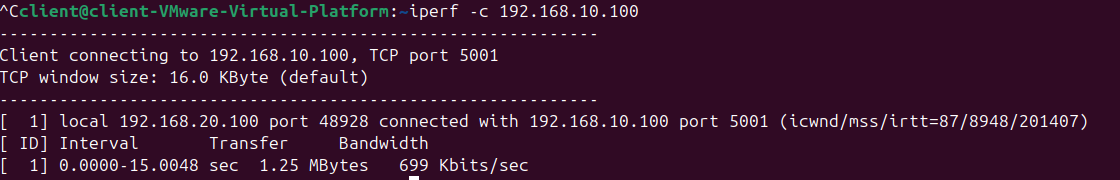
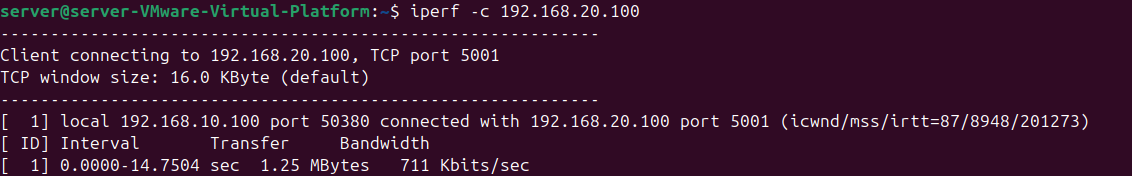
Update Part 1 network test report

diff --git a/report.md b/report.md
@@ -1,9 +1,10 @@
 # EE 542 Lab 2 – Fast, Reliable File Transfer
 
 ## Part 1: Simulating Networking Environments
-## Case 1 The round-trip time (RTT) of 10ms with the Loss rate of 1% (bi-directional) on a network configured to transfer at 100Mbits/sec for the server, client, and router. (Tests conducted by Junyu Zhao)
 
-### Summary
+### Case 1 The round-trip time (RTT) of 10ms with the Loss rate of 1% (bi-directional) on a network configured to transfer at 100Mbits/sec for the server, client, and router. (Tests conducted by Junyu Zhao)
+
+#### Summary
 
 | Test | Direction | Average RTT | Throughput / Bandwidth | Packet Loss |
 |---|---|---:|---:|---:|
@@ -13,7 +14,7 @@
 | UDP iperf | Server → Client | - | Verified in test video | ~1% configured per direction |
 | TCP iperf | Client → Server | - | 23.8 Mbits/sec receiver | 150 retransmissions |
 
-### Observation
+#### Observation
 
 The Case 1 environment was configured for a **100 Mbit/s bandwidth limit**, approximately **10 ms RTT**, and **1% packet loss in each direction**.
 
@@ -25,79 +26,84 @@ The measured RTT was approximately **11.8 ms in both directions**, which is clos
 
 The observed ping packet loss was around **2%–2.5% round-trip**. Since **1% packet loss was configured independently on both VyOS egress directions**, the round-trip ping loss can be close to 2%.
 
-### Configuration Adjustment
+#### Configuration Adjustment
 
 The original lab document used the following TBF parameters:
+
+```text
 rate 100mbit latency 0.001ms burst 9015
+```
 
 In my VMware environment, this configuration only produced approximately 50–60 Mbit/s TCP throughput and resulted in a large number of retransmissions.
+
 <img width="1002" height="624" alt="image" src="https://github.com/user-attachments/assets/9cfd39c1-f2a6-4bdb-bca1-3631a2aa0348" />
 
 
 To maintain the required 100 Mbit/s rate while improving stability in the virtual-machine environment, the TBF parameters were adjusted to:
 
+```text
 rate 100mbit latency 1ms burst 90155
+```
 
 The adjusted parameters were applied to:
 
-Client egress interface
-Server egress interface
-VyOS interface toward the Client
-VyOS interface toward the Server
+- Client egress interface
+- Server egress interface
+- VyOS interface toward the Client
+- VyOS interface toward the Server
 
 After the adjustment, TCP throughput stabilized at approximately 95–96 Mbit/s, with 0 retransmissions.
+
 <img width="940" height="495" alt="image" src="https://github.com/user-attachments/assets/f1bdeb49-052c-4b48-a855-a7c3ac617077" />
 
 
 The required bandwidth rate remained fixed at 100 Mbit/s. Only the TBF queue parameters (latency and burst) were adjusted to better match the VMware environment.
 
-### Case 2: RTT 200 ms, Packet Loss 20%
+### Case 2: RTT 200 ms, Packet Loss 20% per Direction
 
-**Configuration:** RTT = 200 ms, packet loss = 20%, network rate = 100 Mbps.
+**Configuration:** RTT = 200 ms, packet loss = 20% per direction, network rate = 100 Mbit/s.
 
-#### Results
+#### MTU 1500 Results
 
-##### MTU 1500
-
-**Ping: Client → Server**
+##### Ping: Client → Server
 
 ![Case 2 MTU 1500 ping from Client to Server](images/case2_ping_client_to_server.png)
 
-**Ping: Server → Client**
+##### Ping: Server → Client
 
 ![Case 2 MTU 1500 ping from Server to Client](images/case2_ping_server_to_client.png)
 
-**UDP iperf: Client → Server**
+##### UDP iperf: Client → Server
 
 ![Case 2 MTU 1500 UDP iperf from Client to Server](images/case2_udp_client_to_server.png)
 
-**UDP iperf: Server → Client**
+##### UDP iperf: Server → Client
 
 ![Case 2 MTU 1500 UDP iperf from Server to Client](images/case2_udp_server_to_client.png)
 
-**TCP iperf: Client → Server**
+##### TCP iperf: Client → Server
 
 ![Case 2 MTU 1500 TCP iperf from Client to Server](images/case2_tcp_client_to_server.png)
 
-##### MTU 9000
+#### MTU 9000 Results
 
-**Ping: Client → Server**
+##### Ping: Client → Server
 
 ![Case 2 MTU 9000 ping from Client to Server](images/case2_ping_client_to_server_mtu_9000.png)
 
-**Ping: Server → Client**
+##### Ping: Server → Client
 
 ![Case 2 MTU 9000 ping from Server to Client](images/case2_ping_server_to_client_mtu_9000.png)
 
-**UDP iperf: Client → Server**
+##### UDP iperf: Client → Server
 
 ![Case 2 MTU 9000 UDP iperf from Client to Server](images/case2_udp_client_to_server_mtu_9000.png)
 
-**UDP iperf: Server → Client**
+##### UDP iperf: Server → Client
 
 ![Case 2 MTU 9000 UDP iperf from Server to Client](images/case2_udp_server_to_client_mtu_9000.png)
 
-**TCP iperf: Client → Server**
+##### TCP iperf: Client → Server
 
 ![Case 2 MTU 9000 TCP iperf from Client to Server](images/case2_tcp_client_to_server_mtu_9000.png)
 
@@ -105,7 +111,7 @@ The required bandwidth rate remained fixed at 100 Mbit/s. Only the TBF queue par
 
 | MTU | Test | Direction | Average RTT | Throughput | Packet Loss |
 |---:|---|---|---:|---:|---:|
-| 1500 | Ping | Client → Server | 201.375 ms | — | 37% |
+| 1500 | Ping | Client → Server | 201.375 ms | — | 37.0% |
 | 1500 | Ping | Server → Client | 201.418 ms | — | 35.5% |
 | 1500 | UDP iperf | Client → Server | — | 77.6 Mbit/s | 22% |
 | 1500 | UDP iperf | Server → Client | — | 77.8 Mbit/s | 22% |
@@ -118,11 +124,14 @@ The required bandwidth rate remained fixed at 100 Mbit/s. Only the TBF queue par
 
 #### Observations
 
-- The measured RTT (~**201 ms**) and round-trip loss (**34%–38.5%**) were consistent with the configured 200 ms RTT and 20% per-direction loss.
+- The measured RTT (~**201 ms**) and round-trip loss (**34.0%–38.5%**) were consistent with the configured 200 ms RTT and 20% per-direction loss. The theoretical round-trip loss is `1 - (1 - 0.20)^2 = 36%`.
 - UDP remained stable at about **77.7 Mbit/s** regardless of MTU.
 - High RTT and loss severely limited TCP; MTU 9000 improved throughput from **95.9 to 469 Kbit/s**, but it remained far below the link rate.
 
-### Case 3: RTT 200 ms, Packet Loss 0%, Router Limited to 80 Mbps
+### Case 3: RTT 200 ms, Packet Loss 0%, Router Limited to 80 Mbit/s
+
+**Configuration:** RTT = 200 ms, no configured random packet loss, client/server rate = 100 Mbit/s, and router rate = 80 Mbit/s.
+
 <img width="643" height="144" alt="Screenshot 2026-09-01 at 9 56 22 PM" src="https://github.com/user-attachments/assets/d03e1f91-d51c-4c9f-a7c6-8ad724773509" />
 
 #### MTU 1500 Results
@@ -149,7 +158,7 @@ The required bandwidth rate remained fixed at 100 Mbit/s. Only the TBF queue par
 
 ##### TCP iperf: Server → Client
 
-![TCP iperf Client to Server](images/case3_tcp_server_to_client.png)
+![TCP iperf Server to Client](images/case3_tcp_server_to_client.png)
 
 #### MTU 9000 Results
 
@@ -169,27 +178,44 @@ The required bandwidth rate remained fixed at 100 Mbit/s. Only the TBF queue par
 
 ![UDP iperf Server to Client](images/case3_udp_server_to_client_mtu_9000.png)
 
+##### TCP iperf: Client → Server
+
+![TCP iperf Client to Server with MTU 9000](images/case3_tcp_client_to_server_mtu_9000.png)
+
 ##### TCP iperf: Server → Client
 
-![TCP iperf Client to Server](images/case3_tcp_server_to_client_mtu_9000.png)
+![TCP iperf Server to Client with MTU 9000](images/case3_tcp_server_to_client_mtu_9000.png)
 
 #### Summary
 
-| MTU | Test | Direction | Average RTT | Throughput / Bandwidth | Packet Loss |
-|---: |---|---|---:|---:|---:|
-| 1500 | Ping | Client → Server | 224.361 ms | - | 0% |
-| 1500 | Ping | Server → Client | 224.139 ms | - | 0% |
-| 1500 | UDP iperf | Client → Server | - | 70.5 Mbits/sec | 28% |
-| 1500 | UDP iperf | Server → Client | - | 71.7 Mbits/sec | 28% |
-| 1500 | TCP iperf | Client → Server | - | 41.6 Mbits/sec receiver | - |
-| 1500 | TCP iperf | Server → Client | - | 56.5 Mbits/sec receiver | - |
-| 9000 | Ping | Client → Server | 201.050 ms | — | 34% |
-| 9000 | Ping | Server → Client | 201.036 ms | — | 38.5% |
+| MTU | Test | Direction | Average RTT | Throughput | Packet Loss |
+|---:|---|---|---:|---:|---:|
+| 1500 | Ping | Client → Server | 224.361 ms | — | 0% |
+| 1500 | Ping | Server → Client | 224.139 ms | — | 0% |
+| 1500 | UDP iperf | Client → Server | — | 70.5 Mbit/s | 28% |
+| 1500 | UDP iperf | Server → Client | — | 71.7 Mbit/s | 28% |
+| 1500 | TCP iperf | Client → Server | — | 41.6 Mbit/s (receiver) | — |
+| 1500 | TCP iperf | Server → Client | — | 56.5 Mbit/s (receiver) | — |
+| 9000 | Ping | Client → Server | 201.050 ms | — | 0% |
+| 9000 | Ping | Server → Client | 201.036 ms | — | 0% |
 | 9000 | UDP iperf | Client → Server | — | 77.7 Mbit/s | 22% |
-| 9000 | UDP iperf | Server → Client | — | 77.9 Mbit/s | 22% |
-| 9000 | TCP iperf | Client → Server | — | - | — |
+| 9000 | UDP iperf | Server → Client | — | 77.8 Mbit/s | 22% |
+| 9000 | TCP iperf | Client → Server | — | 699 Kbit/s | — |
+| 9000 | TCP iperf | Server → Client | — | 711 Kbit/s | — |
 
-## noted: throughput of case 3 was more than 20x of that of case 2
+#### Observations
+
+- Sending UDP at 100 Mbit/s through the 80 Mbit/s router bottleneck caused **22%–28% congestion loss**, despite zero configured random loss; received throughput was **70.5–77.8 Mbit/s**.
+- At MTU 1500, Client → Server TCP throughput was **41.6 Mbit/s**, approximately **434×** Case 2's **95.9 Kbit/s**.
+- At MTU 9000, TCP reached **699 Kbit/s** Client → Server and **711 Kbit/s** Server → Client. The 16.0 KByte TCP window limits throughput at ~201 ms RTT to about `16 KBytes × 8 / 0.201 s ≈ 0.65 Mbit/s`, close to the measurements; the low rates therefore cannot be attributed to MTU alone.
+- MTU 1500 ping RTT (~**224 ms**) exceeded both the 200 ms target and the MTU 9000 result (~**201 ms**), indicating extra queueing or run-to-run variation.
+
+#### Critical Thinking
+
+Case 2 and Case 3 have similar RTTs (~200 ms) and UDP throughput (~78 Mbit/s), but Case 2's 20% random loss repeatedly reduces the TCP congestion window; the high RTT further slows ACKs and loss recovery. Without random loss, Case 3 can sustain much higher MTU 1500 TCP throughput, while its UDP loss results from the 80 Mbit/s bottleneck rather than the configured network conditions.
+
+The MTU 9000 TCP tests were instead limited by their 16 KB TCP window (~0.65 Mbit/s at 200 ms RTT). Because the MTU 1500 and MTU 9000 tests used different window conditions, MTU effects cannot be compared reliably without retesting with the same iperf version, TCP window, and duration.
+
 
 ## Part 2: Fast and Reliable File Transfer
 
